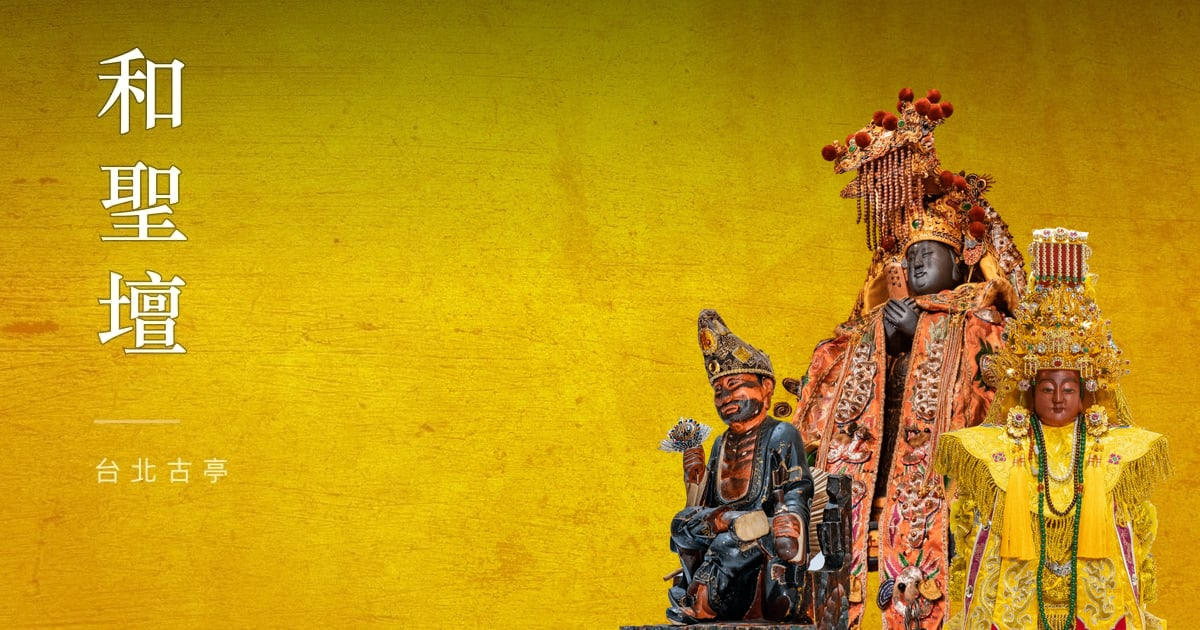
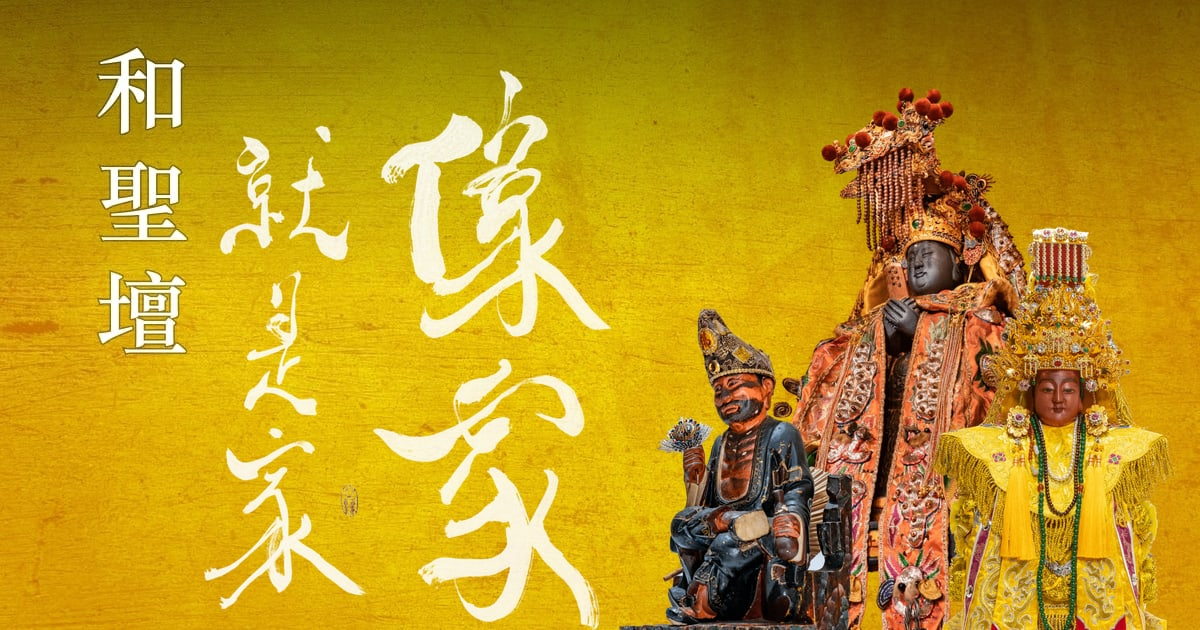
分享卡重產：拿掉台北古亭與短線、加上書法，與網站同步
網站 2026-10-25 拿掉了「台北古亭」與字標底下那條短線、加上書法，
分享卡（LINE／FB 預覽圖）跟著重產，兩邊不再各說各話。

**字標帶只裁不改。** 素材 og-hero-wordmark.jpg 是 440×630，掃出來：
    和 y 49–129、聖 y 165–239、壇 y 272–351
    短線 y 420–422、台北古亭 y 458–482
所以 STRIP_H 取 400——落在「壇」下 49px、短線上 18px，兩邊都留得夠。
**不重排文字**：素材與網站的字型差一點，卡片就變成「很像但不是」
那張，而那正是當初沿用素材的理由。

**裁掉的部分不會露餡**：底下那層 bg 是「金底 × keep」，而 keep 正是
從這條字標帶反推的，非文字處本來就同色。實測接縫兩側（y399 對 y401）
最大色差 1/255，比素材自己的相鄰起伏（5）還小。

**書法的位置用網站同一套算式算，沒有另外抓一組數字**：
    神尊左緣 = W − 24 − 0.886 × min(H, 1.1W)
右緣貼它前 6px、上緣 70、下緣吃到卡片底。1200×630 代進去得到神尊
左緣 **618**，與 DEITIES 裡量到的濟公 left **618** 完全一致——算式與
實測互相驗證過。

疊放順序照網站的 z：字標帶（不透明 JPEG）必須在書法之前，順序反了
會把書法蓋掉；這個尺寸下兩者其實不重疊（字在 x<150、書法從 x=204
起），但照 z 寫才不會在日後改尺寸時變成看不出原因的 bug。

版號 06ea0a91 → 0cfe23b7，og:image／twitter:image／JSON-LD 三處與
各預渲染頁都已跟上。

diff --git a/scripts/build-og-hero.js b/scripts/build-og-hero.js
@@ -45,6 +45,39 @@ const W = 1200, H = 630;
 const STRIP = 440;            // 字標帶寬度；三尊都在這條線右邊，不會互相干擾
 const CLEAN = [300, 430];     // 字標帶裡沒有字的乾淨區間，用來反推暗化比例
 
+/**
+ * 字標帶只取到這一列為止（2026-10-25）。
+ *
+ * 網站上的「台北古亭」與它上面那條短線已依廟方要求移除，卡片要跟著。
+ * **但不要重排文字**——素材與網站的字型若有一點差異，分享卡就會變成
+ * 「很像但不是」那張（這也是當初直接沿用素材的理由）。作法是**只裁不改**：
+ * 掃素材量出三個字與其餘元素的位置（440×630）：
+ *     和 y 49–129、聖 y 165–239、壇 y 272–351
+ *     短線 y 420–422、台北古亭 y 458–482
+ * 取 400 這一刀落在「壇」之下 49px、短線之上 18px，兩邊都留得夠。
+ *
+ * **裁掉的部分不會露餡**：底下那層 `bg` 就是 `金底 × keep`，而 `keep` 正是從
+ * 這條字標帶反推出來的，所以非文字處兩者本來就同色，接縫看不出來。
+ */
+const STRIP_H = 400;
+
+/**
+ * 書法（2026-10-25 上站）。**位置與尺寸照網站同一套算式算**，卡片才會跟首屏
+ * 是同一個版面——這是這支腳本從頭到尾的原則（見檔頭 DEITIES 那段）。
+ *
+ *     神尊左緣 = 100vw − 24px − 0.886 × min(100vh, 110vw)
+ *
+ * 右緣貼在神尊左緣前 6px，上緣留 70（網站上那是導覽列的位置），下緣吃到卡片底。
+ * 1200×630 代進去：神尊左緣 618——**與上面 DEITIES 量到的濟公 left 618 完全一致**，
+ * 等於這條算式與實際量測互相驗證過。
+ */
+const U = Math.min(H, 1.1 * W);
+const DEITY_LEFT = W - 24 - 0.886 * U;
+const CAL_TOP = 70;
+const CAL_H = H - CAL_TOP;
+const CAL_W = Math.round(CAL_H * (1337 / 1836));   // 書法原圖的長寬比
+const CAL_LEFT = Math.round(DEITY_LEFT - 6 - CAL_W);
+
 // 量自首頁在 1200×630 下的實際渲染（2026-09-02；濟公 2026-09-12 換照片後重量，
 // 坐姿帶椅背那張比較寬，只有他的 left 與 w 變了，另外兩尊沒動）。
 // draw 是繪製順序＝z-index 由小到大：三媽在最底（廟方要「二媽與濟公站在她面前」，
@@ -84,9 +117,18 @@ const raw = (img) => img.raw().toBuffer({ resolveWithObject: true });
     }
   }
 
+  // 疊放順序＝網站的 z：書法（z-0）最底，字標（z-20）與神尊（z-10）在它之上。
+  // **字標帶必須疊在書法之前**——它是不透明的 JPEG，順序反了會把書法蓋掉。
+  // 1200×630 下兩者其實不重疊（字在 x<150，書法從 x=204 起），但順序照 z 寫才不會
+  // 在日後改尺寸時變成一個看不出原因的 bug。
   const layers = [{
-    input: await sharp(path.join(ROOT, 'scripts/assets/og-hero-wordmark.jpg')).png().toBuffer(),
+    input: await sharp(path.join(ROOT, 'scripts/assets/og-hero-wordmark.jpg'))
+      .extract({ left: 0, top: 0, width: STRIP, height: STRIP_H }).png().toBuffer(),
     left: 0, top: 0,
+  }, {
+    input: await sharp(path.join(PUB, 'hero-calligraphy.png'))
+      .resize(CAL_W, CAL_H).png().toBuffer(),
+    left: CAL_LEFT, top: CAL_TOP,
   }];
   for (const d of DEITIES) {
     // 超出畫布的部分要先裁掉——sharp 的 composite 不接受超界的圖層
@@ -107,6 +149,8 @@ const raw = (img) => img.raw().toBuffer({ resolveWithObject: true });
 
   console.log(`og-hero.jpg  ${W}x${H}  ${(statSync(dest).size / 1024) | 0}KB  →  ${dest}`);
   console.log(`  頂端保留 ${keep[0].toFixed(3)}、y=300 保留 ${keep[300].toFixed(3)}（由字標帶反推）`);
+  console.log(`  字標帶    只取 y 0–${STRIP_H}（短線 420 與「台北古亭」458 已裁掉）`);
+  console.log(`  書法      x ${CAL_LEFT}–${CAL_LEFT + CAL_W}  y ${CAL_TOP}–${H}（神尊左緣 ${Math.round(DEITY_LEFT)}）`);
   for (const d of DEITIES) console.log(`  ${d.file.padEnd(12)} x ${d.left}–${d.left + d.w}  y ${d.top}–${d.top + d.h}`);
 })();
 

diff --git a/CLAUDE.md b/CLAUDE.md
@@ -303,7 +303,7 @@ vercel --prod --yes  # 部署正式站（已連結專案 machu）
   **量過的尺寸（全部 0 重疊、長寬比 0.728、離神尊一律 6px、下緣齊 Hero 底）**：1024×768 `304×417`、1280×1024 `333×457`、1366×640 `415×570`、1440×900 `603×827`、1920×1080 `735×1010`、1100×1200 不顯示。
   **1024×768 與 1280×1024 受限於寬度長不大**（左緣已經到 x=10），那兩種視窗的金箔空檔本來就窄，不是漏調。
 - **Hero 左上的字標現在只剩直式的 `和聖壇` 三個字**。`台北古亭` 與它上面那條短線 2026-10-25 依廟方要求**都移除了**（先「不用再顯示，簡化」拿掉地名，同一天再拿掉短線——地名沒了，短線就只是一條懸著的裝飾）。
-  **所以網站與分享卡 `scripts/assets/og-hero-wordmark.jpg` 不一致了**——那張卡上仍有短線與地名。這是廟方知情的取捨不是漏改；地名仍在分頁標題與 og:title（「台北古亭和聖壇」），SEO 不受影響。要兩邊一致就得重產分享卡素材。
+  **分享卡 2026-10-25 已經重產、兩邊一致了**（`public/og-hero.jpg`）：卡上同樣只剩「和聖壇」，而且也加上了書法。地名仍在分頁標題與 og:title（「台北古亭和聖壇」），SEO 不受影響。
   （以下為原本的紀錄）字標與分享卡同一個構成。分享卡上一直有地名、網站上原本沒有，廟方 2026-09-12 指出後補上。地名不放進 h1（h1 是宮壇名，分頁標題與 og:title 已帶「台北古亭」）；它落在上緣遮罩之外、白字壓亮金，靠 `text-shadow` 貼著筆畫的暗影撐可讀性，844×390 這種矮橫屏會落進底部淡出區，實測仍讀得到。
 - **分享卡的網址也帶版號**（2026-09-12）：`og-hero.jpg` 列在 `HERO_FILES` 裡，index.html 的 og:image／twitter:image／JSON-LD 建置時都變成 `og-hero.jpg?v=<雜湊>`。LINE／FB 拿圖的網址當快取鍵，換圖不換網址永遠是舊卡。但對方另外還快取「這個網頁的 og 標籤」：已分享過的網址要等它重抓——FB 用 Sharing Debugger 按重新抓取；LINE 沒有工具，分享時網址後面加 `?v=2` 之類就是新網址。
 - **香煙改成多縷「香火鼎盛」（2026-09-26，廟方要求）**：從一柱＋一個分岔擴成一爐五縷（手機四縷）。
@@ -320,7 +320,13 @@ vercel --prod --yes  # 部署正式站（已連結專案 machu）
   桌機維持 `z-10` 在神尊後面：那邊爐口在左側空白（煙的範圍 17.2%～30.9%、濟公從 30.6% 起），本來就幾乎不重疊，前後看不出差別。要改成一致的話只是把那條 media query 拿掉。
   **淡的那幾縷取樣點砍半**（`alpha < 0.6` 用 `N>>1`）：又細又淡，看不出差別但省一半三角函式。合成基準實測（1265×900、dpr 2）**2 縷 0.21ms/幀 → 7 縷 0.30ms/幀，只增加 1.42 倍而不是 3.5 倍**，16.67ms 的預算還剩 98%。
   **量效能時注意**：開發用的瀏覽器面板隱藏時 rAF 會被節流，`requestAnimationFrame` 量到的幀時間完全不可信（實際只收到 5 幀）。要嘛把面板叫到前景，要嘛在暫存畫布上重建相同的路徑數與填充數來量。
-- **首頁分享圖 `public/og-hero.jpg` 由 `scripts/build-og-hero.js` 產生，Hero 一改就要重跑**（用法在檔頭，第二個參數可指到暫存目錄先驗收）。兩件事寫在腳本裡：(1) **三尊的座標是量出來的不是排出來的**——把視窗設成 1200×630（正好是 og:image 尺寸）開正式站，抄三張 `<img>` 的 `getBoundingClientRect()`，卡片與首屏因此是同一個版面，不必自己換算比例；重量的程式片段附在檔尾。(2) **背景不是單純的 hero-gold**——Hero 上方有暗化（頂端只保留 0.54，到 y=300 回到 1.0），腳本不寫死那條曲線，而是拿 `scripts/assets/og-hero-wordmark.jpg`（左側字標帶素材）除以金底反推，素材換了也不會失準。字標帶直接沿用素材，不重排文字，免得字型不同產生差異。
+- **首頁分享圖 `public/og-hero.jpg` 由 `scripts/build-og-hero.js` 產生，Hero 一改就要重跑**（用法在檔頭，第二個參數可指到暫存目錄先驗收）。
+  **2026-10-25 重產過一次**：拿掉「台北古亭」與短線、加上書法，與網站同步。
+  **字標帶只裁不改（`STRIP_H = 400`）**：素材 `og-hero-wordmark.jpg` 是 440×630，掃出來的位置是「和」y 49–129、「聖」y 165–239、「壇」y 272–351、**短線 y 420–422、台北古亭 y 458–482**，所以取 400 這一刀落在「壇」下 49px、短線上 18px。**不要重排文字**——素材與網站的字型差一點，卡片就變成「很像但不是」那張（這也是當初沿用素材的理由）。
+  **裁掉的部分不會露餡**：底下那層 `bg` 是 `金底 × keep`，而 `keep` 正是從這條字標帶反推的，非文字處本來就同色。實測接縫兩側（y399 對 y401）最大色差 **1/255**，比素材自己的相鄰起伏（5）還小。
+  **書法的位置用網站同一套算式算，不要另外抓一組數字**：`神尊左緣 = W − 24 − 0.886 × min(H, 1.1W)`，右緣貼它前 6px、上緣 70（網站上那是導覽列）、下緣吃到卡片底。**1200×630 代進去得到神尊左緣 618，與 `DEITIES` 裡量到的濟公 left 618 完全一致**——算式與實測互相驗證過。
+  **換圖之後三個標籤會自己跟上**：`og-hero.jpg` 在 `HERO_FILES` 裡，建置時 og:image／twitter:image／JSON-LD 都會換成新的 `?v=` 雜湊（這次 06ea0a91 → 0cfe23b7），所以 LINE／FB 拿到的是新網址。但**已經分享過的舊連結仍要對方重抓**（見下一條）。
+  兩件事寫在腳本裡：(1) **三尊的座標是量出來的不是排出來的**——把視窗設成 1200×630（正好是 og:image 尺寸）開正式站，抄三張 `<img>` 的 `getBoundingClientRect()`，卡片與首屏因此是同一個版面，不必自己換算比例；重量的程式片段附在檔尾。(2) **背景不是單純的 hero-gold**——Hero 上方有暗化（頂端只保留 0.54，到 y=300 回到 1.0），腳本不寫死那條曲線，而是拿 `scripts/assets/og-hero-wordmark.jpg`（左側字標帶素材）除以金底反推，素材換了也不會失準。字標帶直接沿用素材，不重排文字，免得字型不同產生差異。
 - **`scripts/` 底下的腳本有兩種合法寫法，別混**（`package.json` 是 `type: module`）：
   **ESM（`.js`）** 要取 npm 套件必須用 `createRequire`——`NODE_PATH` 對 `import` 沒作用。`prerender.js`、`build-icons.js`、`build-og-scripture.js` 是這一類。
   **CommonJS 必須叫 `.cjs`**。副檔名寫 `.js` 會被當成 ESM，頂層的 `require` 直接 `ReferenceError: require is not defined`。`build-hero-assets.cjs`、`cutout-lib.cjs` 是這一類（2026-09-02 從 `.js` 改過來——在那之前它們**完全跑不起來**，檔頭寫的用法是失效的，而這件事光看程式碼看不出來，要真的執行才會發現）。
